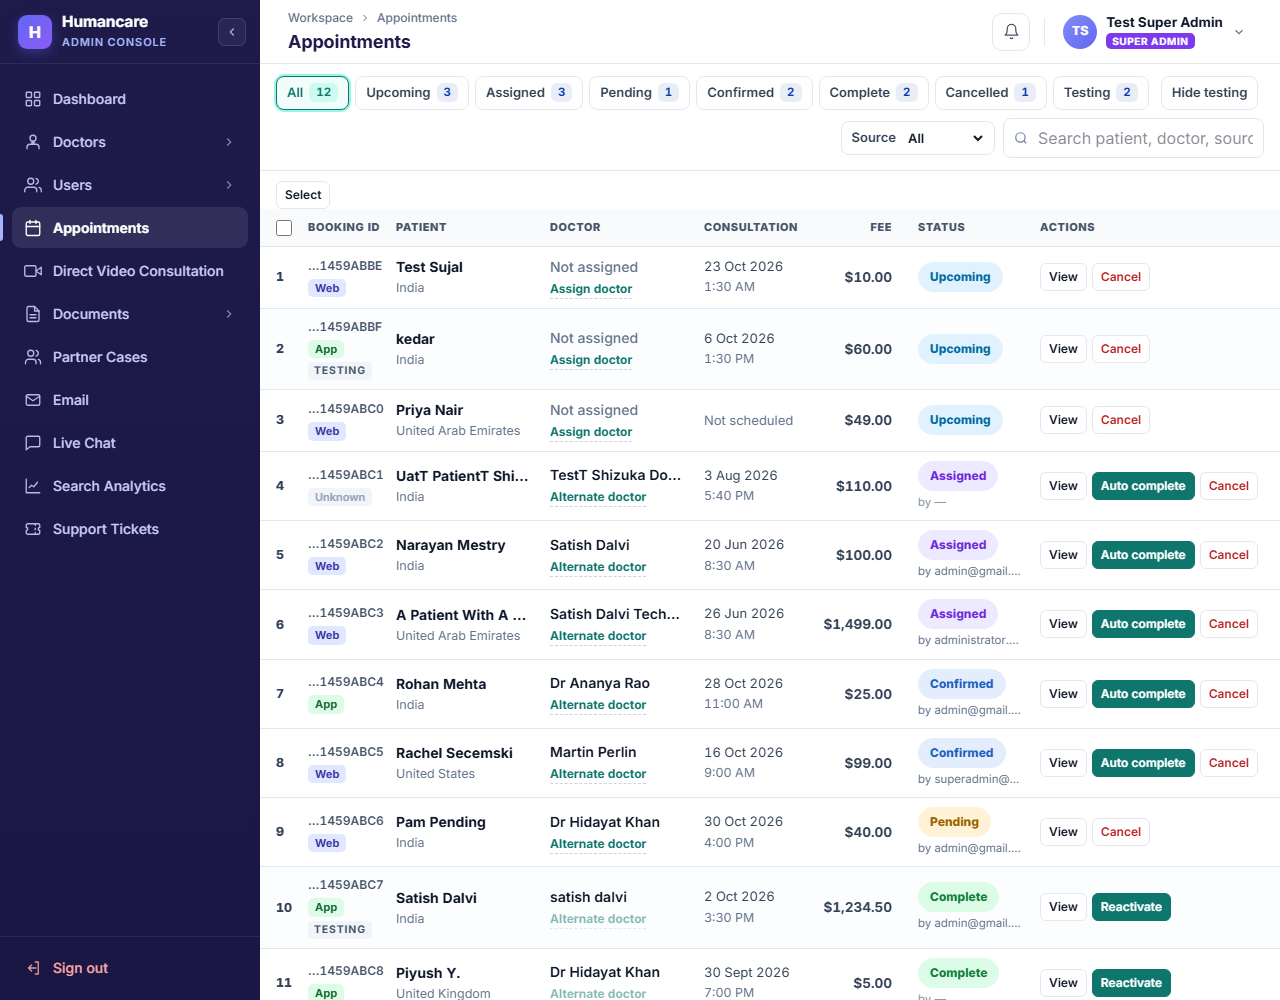
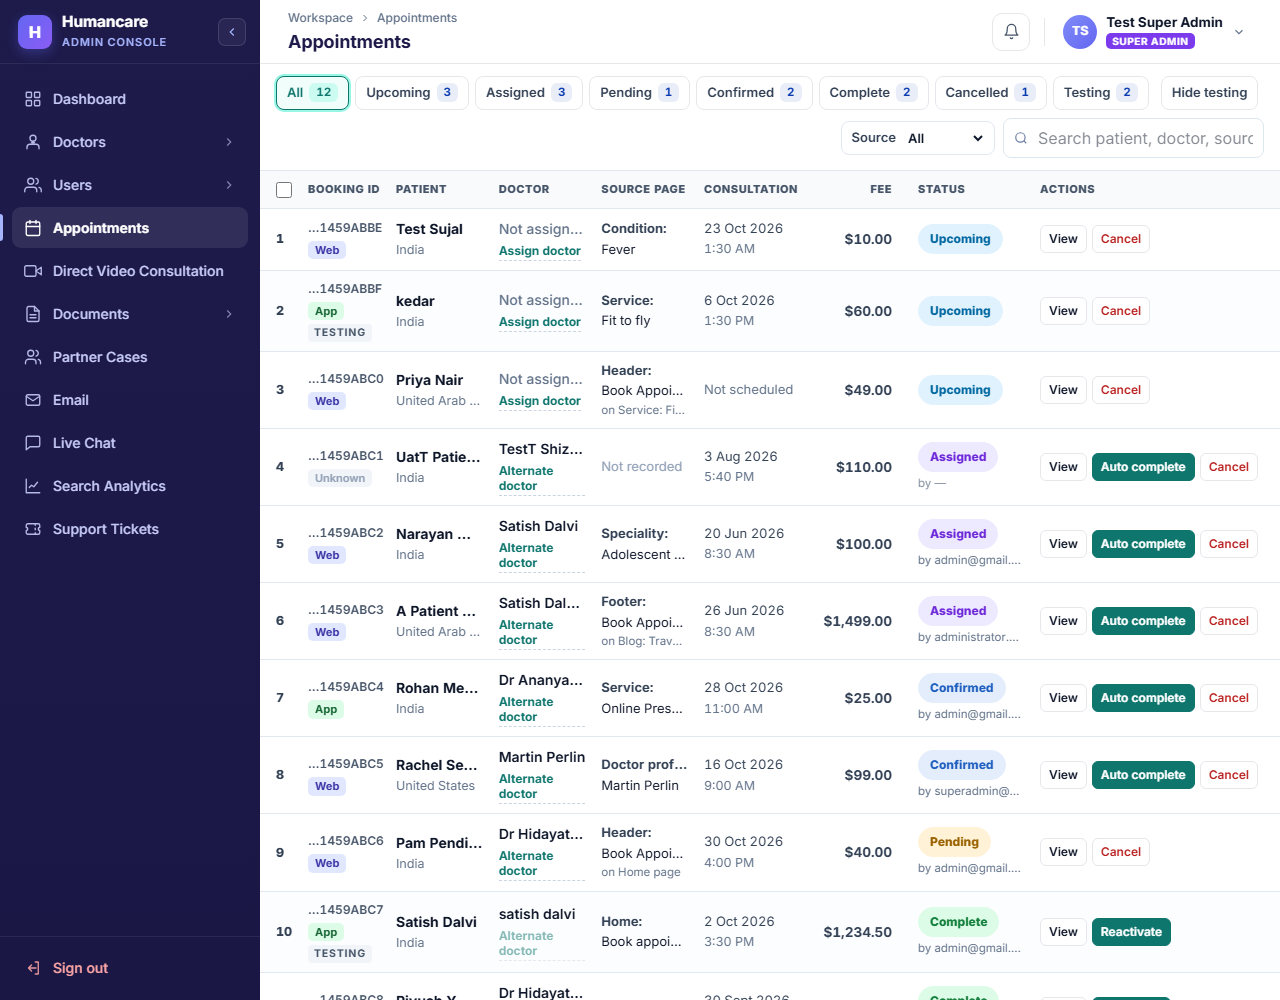
Appointments: keep Source page for as long as the list is a table (down to 1000px)
The Source page column no longer has its own cut-off: it shows on 1280px laptops (table area 1020px) and goes only
when the list becomes one card per booking. Booked still goes first, under 1180px. Layout checks, the Appointments
browser test and the screenshots follow.

diff --git a/frontend/src/pages/admin/AdminAppointments.css b/frontend/src/pages/admin/AdminAppointments.css
@@ -2216,15 +2216,10 @@ a.adp-bk-alt {
   line-height: 1;
 }
 
-/* Narrow table area (the page without the sidebar): the Booked column goes first, under 1180px; the Source page column
-   stays down to 1024px. */
+/* Narrow table area (the page without the sidebar): the Booked column goes under 1180px. The Source page column stays
+   for as long as the list is a table (down to 1000px, where it becomes cards). */
 @container (max-width: 1179px) {
   .adp-bk .adp-bk-c-booked {
-    display: none;
-  }
-}
-@container (max-width: 1023px) {
-  .adp-bk .adp-bk-c-src {
     display: none;
   }
 }
